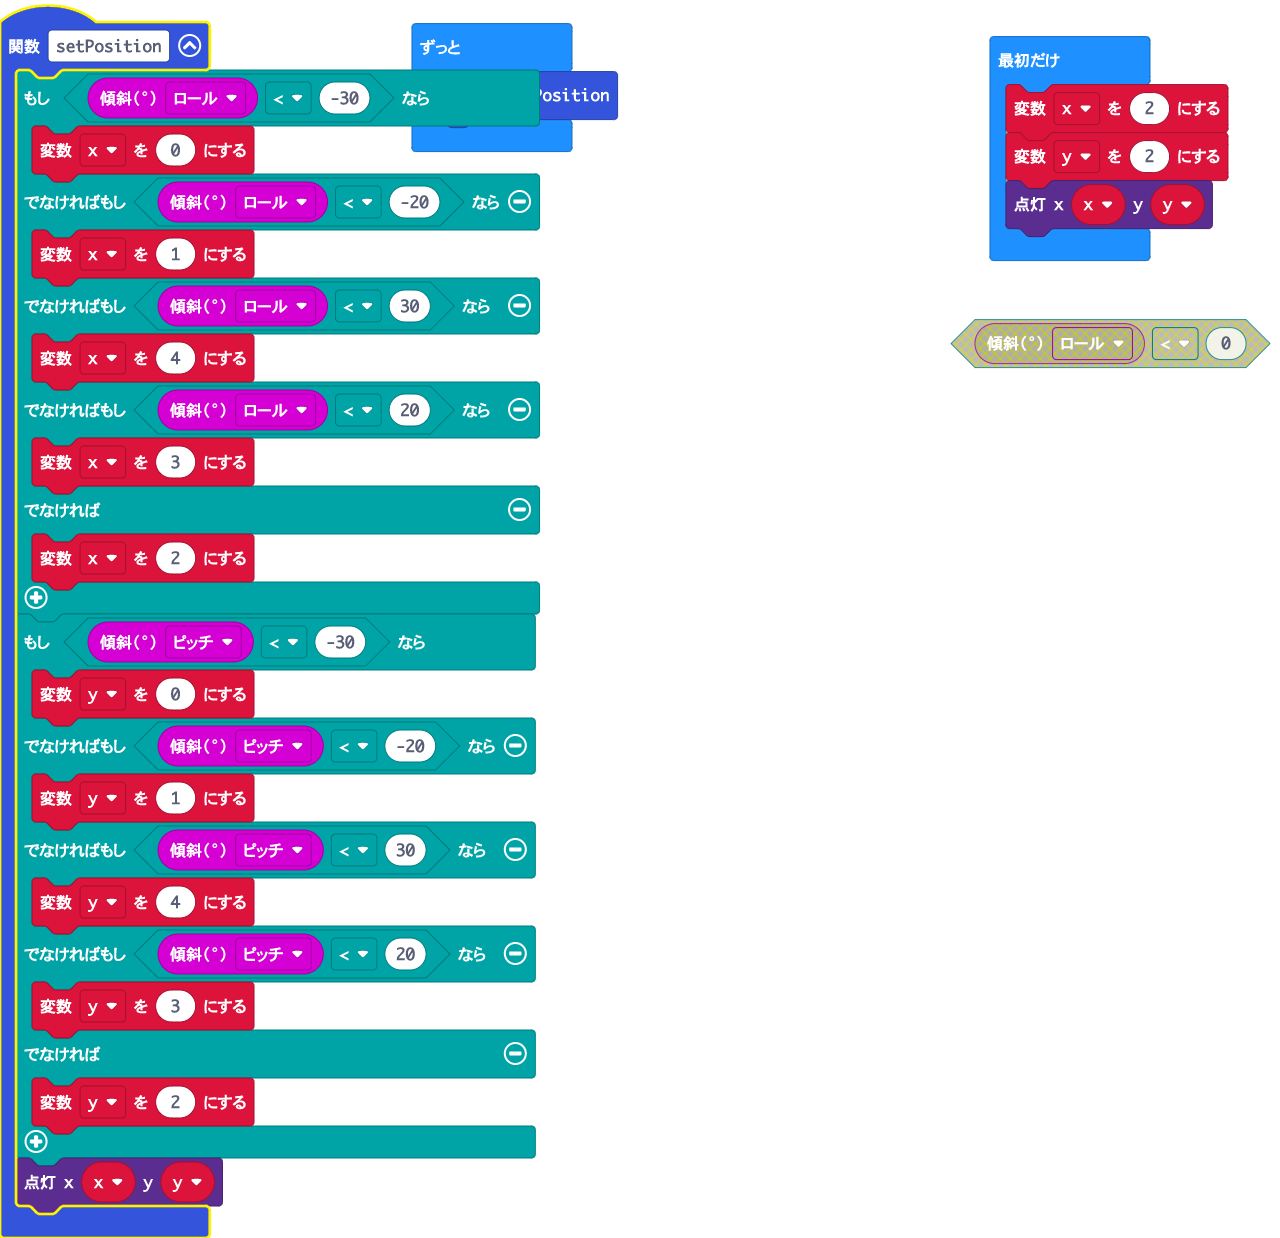
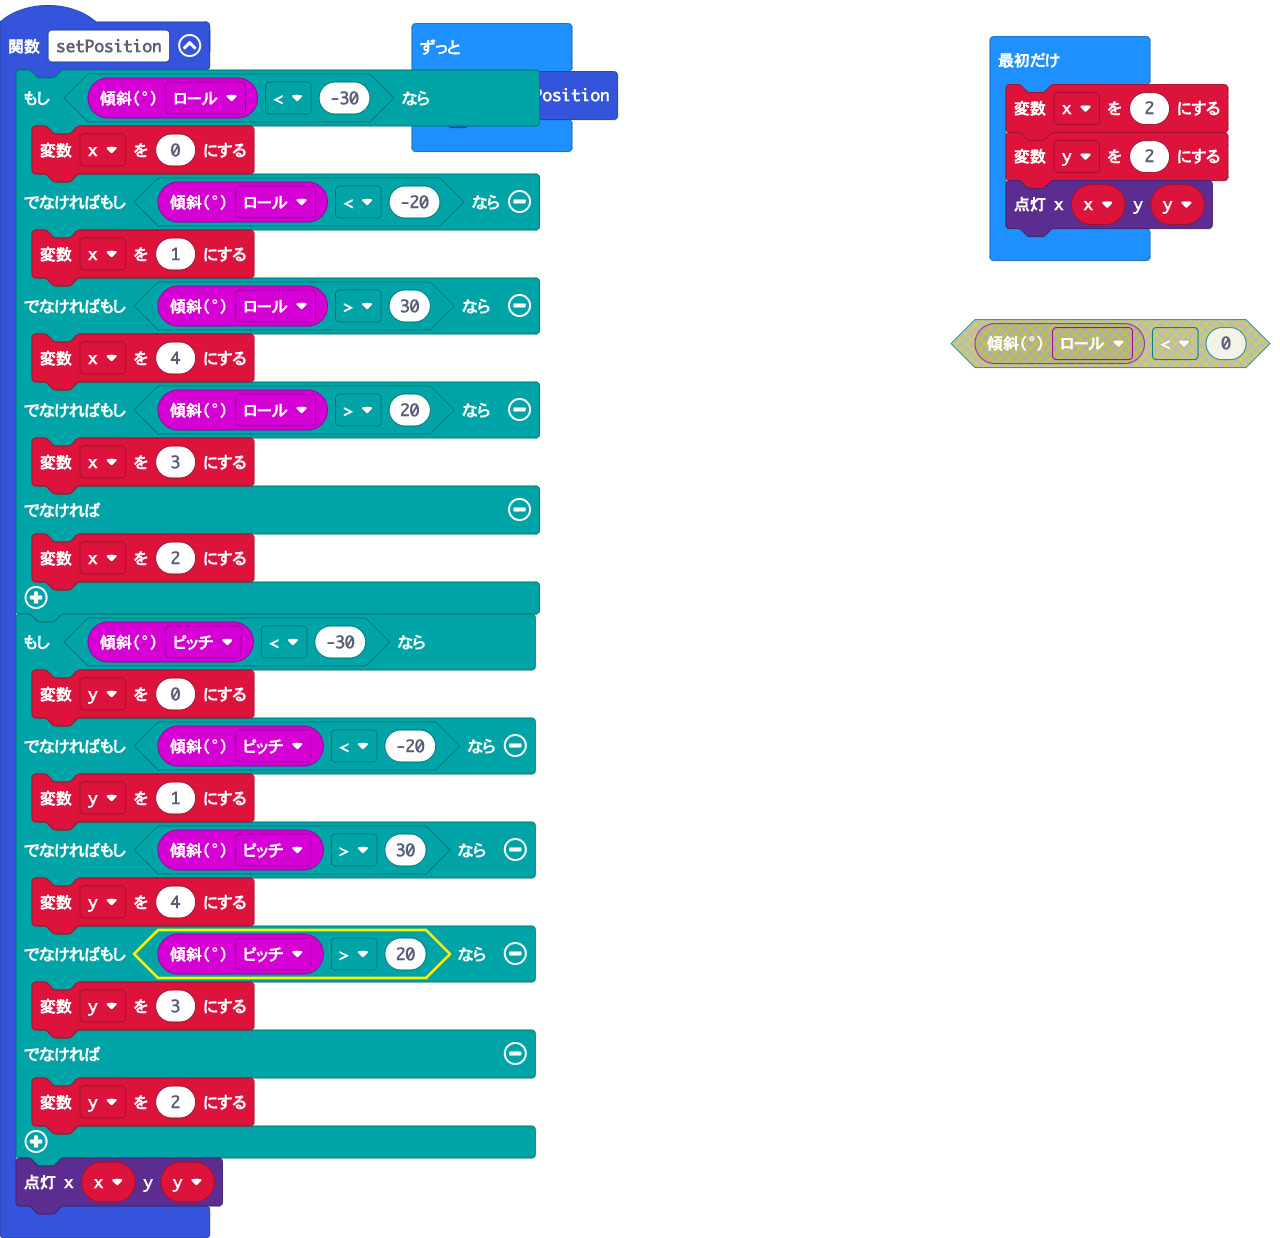
更新 main.blocks, main.ts

diff --git a/main.ts b/main.ts
@@ -3,9 +3,9 @@ function setPosition () {
         x = 0
     } else if (input.rotation(Rotation.Roll) < -20) {
         x = 1
-    } else if (input.rotation(Rotation.Roll) < 30) {
+    } else if (input.rotation(Rotation.Roll) > 30) {
         x = 4
-    } else if (input.rotation(Rotation.Roll) < 20) {
+    } else if (input.rotation(Rotation.Roll) > 20) {
         x = 3
     } else {
         x = 2
@@ -14,9 +14,9 @@ function setPosition () {
         y = 0
     } else if (input.rotation(Rotation.Pitch) < -20) {
         y = 1
-    } else if (input.rotation(Rotation.Pitch) < 30) {
+    } else if (input.rotation(Rotation.Pitch) > 30) {
         y = 4
-    } else if (input.rotation(Rotation.Pitch) < 20) {
+    } else if (input.rotation(Rotation.Pitch) > 20) {
         y = 3
     } else {
         y = 2
